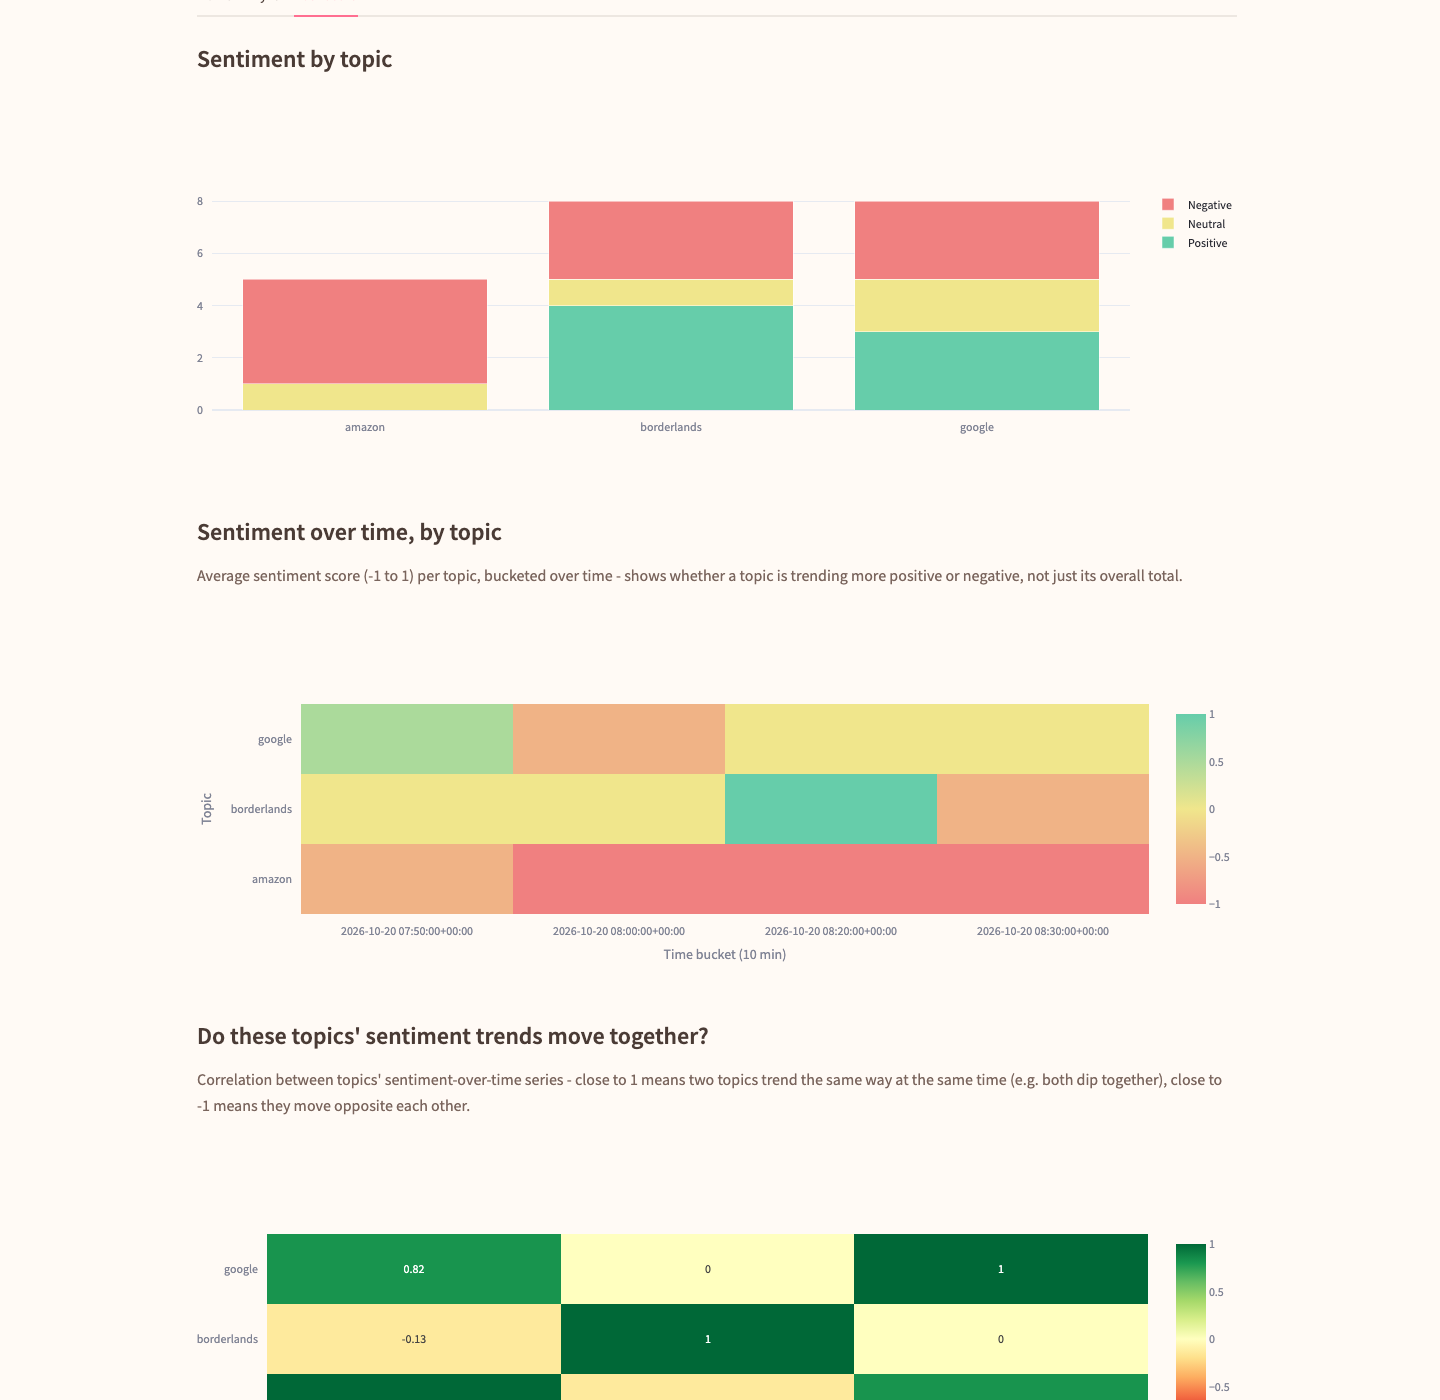
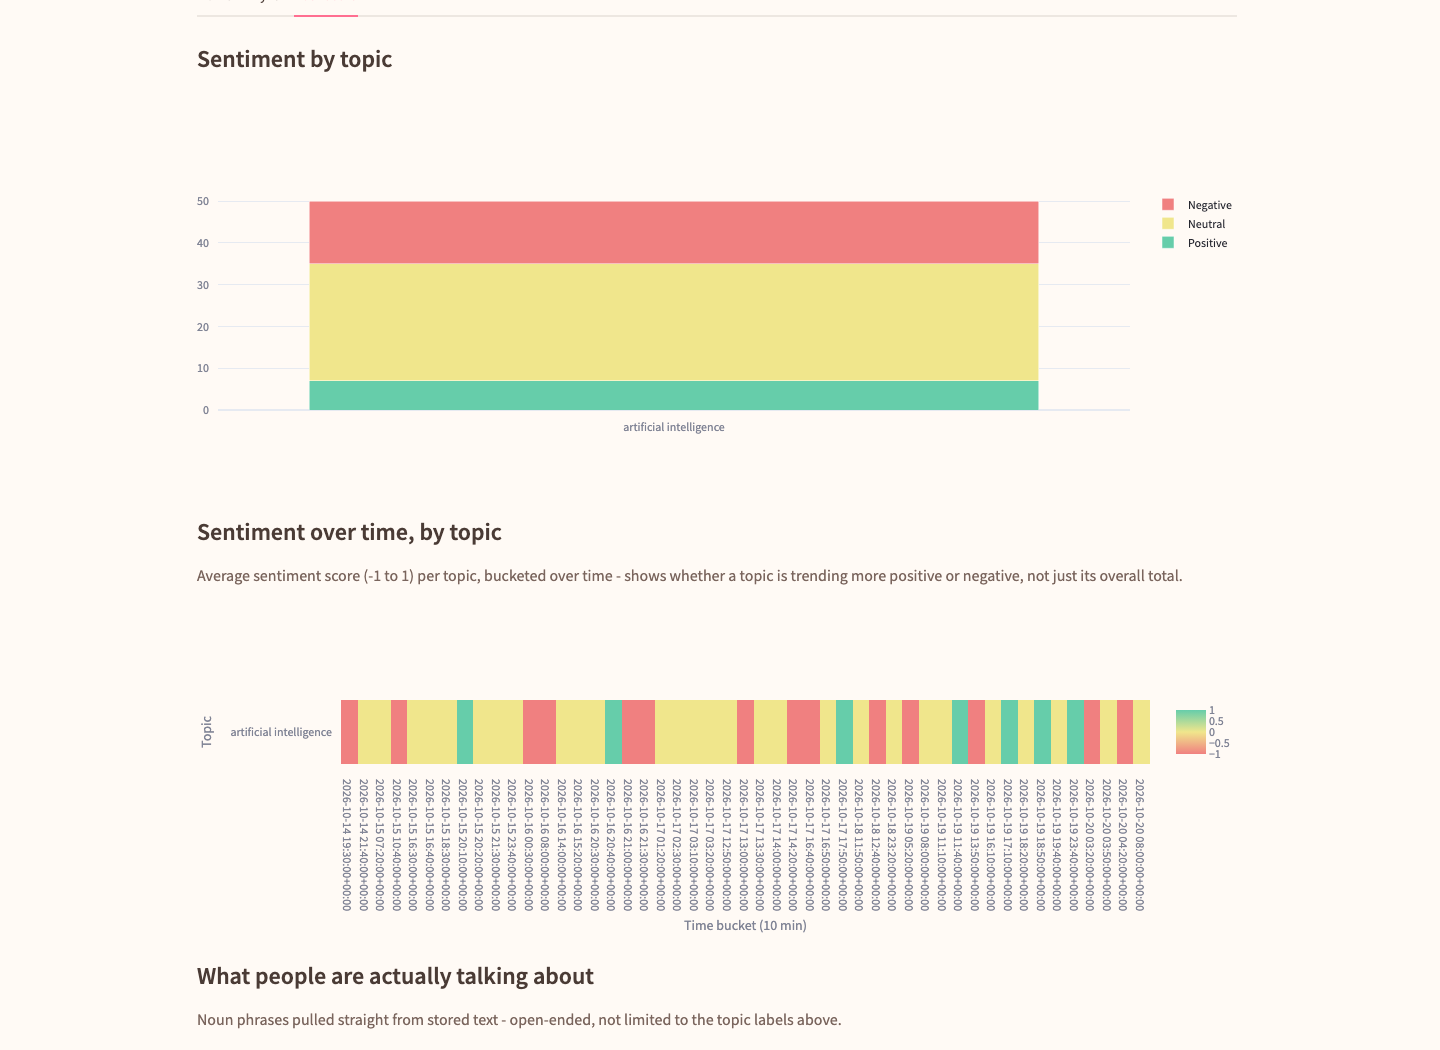
Add live Hacker News ingestion, swap in as the default live source
The plan called for actually running live ingestion end to end, not
just documenting it - but trying to register a Reddit API app for
real hit a wall: Reddit's app registration moved from instant
self-serve to a manual-approval process at some point this year,
confirmed directly rather than assumed. Waiting on that isn't
"live ingestion," it's "live ingestion eventually, maybe."

Added hn_ingest.py: Hacker News comment search via Algolia's public
API - no key, no registration, no approval, works immediately. Same
post-dict shape ingest.py/news.py already produce, so it plugs into
the existing pipeline/quality-gate/storage code unchanged. Wired in
as the default source in scheduler.py and a new live option in the
Try It tab, with Reddit kept (not removed) as a documented
alternative for anyone who has or later gets API access.

Verified end to end through the real Streamlit UI: a live search for
"artificial intelligence" pulled 50 real, current HN comments, all 50
passed the quality gate, all 50 scored and stored, and the dashboard
correctly shows real comment timestamps spanning the last several
days - genuinely live data, not a demo dataset standing in for it.

diff --git a/app.py b/app.py
@@ -1,8 +1,8 @@
 """Streamlit dashboard for SentimentAutomated - reads from the SQLite
 store built by pipeline.py, rather than a one-shot CSV-in/PDF-out script.
 Includes a "Try it" tab that runs the real pipeline on a sample of the
-bundled Twitter dataset live, so the project is interactive even without
-Reddit/NewsAPI credentials configured."""
+bundled Twitter dataset, or a genuinely live pull from Hacker News, so the
+project is interactive with zero credentials configured."""
 
 import pandas as pd
 import plotly.graph_objects as go
@@ -10,6 +10,7 @@ import streamlit as st
 
 import store
 from alerts import check_alerts
+from hn_ingest import fetch_hn_comments
 from pipeline import run_pipeline
 from process import SentimentModel
 from topics import top_noun_chunks
@@ -63,7 +64,8 @@ def home_tab():
         "CSV and print a PDF."
         "</p>"
         "<ul>"
-        "<li><b>Ingest</b> - Reddit posts/comments, news headlines, or a batch CSV</li>"
+        "<li><b>Ingest</b> - Hacker News comments live, Reddit/news headlines when configured, "
+        "or a batch CSV</li>"
         "<li><b>Score</b> - a RoBERTa model fine-tuned for sentiment, batched for real throughput</li>"
         "<li><b>Store</b> - SQLite, so history builds up instead of getting overwritten</li>"
         "<li><b>Alert</b> - flags a topic if its negative share crosses a threshold</li>"
@@ -109,8 +111,8 @@ def home_tab():
         st.markdown(
             '<div class="sa-feature-card"><h4>Try It</h4>'
             "<ul>"
-            "<li>Pick a topic from the bundled dataset and ingest a live sample</li>"
-            "<li>No Reddit/NewsAPI credentials needed for this demo path</li>"
+            "<li>A bundled-dataset sample, or a genuinely live pull from Hacker News</li>"
+            "<li>No credentials needed for either path</li>"
             "<li>Watch the pipeline accept/reject/score/store in real time</li>"
             "</ul></div>",
             unsafe_allow_html=True,
@@ -135,9 +137,9 @@ def home_tab():
 
 def try_it_tab():
     st.markdown(
-        '<p style="color:#7a655d;">Pulls a small batch from the bundled Twitter dataset for '
-        "the topic you pick, runs it through the real pipeline (quality gate -> sentiment "
-        "scoring -> storage), and shows you what happened at each stage.</p>",
+        '<p style="color:#7a655d;">Two ways to see the real pipeline run (quality gate -> '
+        "sentiment scoring -> storage): a quick sample from the bundled dataset, or a genuinely "
+        "live pull from Hacker News - both need zero credentials.</p>",
         unsafe_allow_html=True,
     )
 
@@ -153,25 +155,40 @@ def try_it_tab():
             f"{summary['stored']} newly stored (duplicates from a prior run are skipped)."
         )
 
-    col1, col2 = st.columns([2, 1])
-    with col1:
-        entity = st.selectbox("Topic", ENTITY_CHOICES)
-    with col2:
-        sample_size = st.number_input("Sample size", min_value=10, max_value=200, value=50, step=10)
+    source_choice = st.radio("Source", ["Bundled dataset (batch)", "Hacker News (live)"], horizontal=True)
 
-    if st.button("Ingest sample"):
-        with st.spinner(f"Ingesting and scoring {sample_size} posts about {entity}..."):
-            # load_batch_csv() treats a whole file as one topic, which isn't
-            # right here since this dataset covers many entities in one
-            # file - filter to the chosen entity first instead.
-            df = pd.read_csv("twitter_training.csv")
-            subset = df[df["Entity"] == entity].head(sample_size)
-            posts = [
-                {"post_id": str(r["Tweet ID"]), "text": str(r["Tweet"]), "topic": entity.lower(), "created_at": None}
-                for _, r in subset.iterrows()
-            ]
-            st.session_state["last_ingest_summary"] = run_pipeline(posts, source="batch_csv", model=load_model())
-        st.rerun()
+    if source_choice == "Bundled dataset (batch)":
+        col1, col2 = st.columns([2, 1])
+        with col1:
+            entity = st.selectbox("Topic", ENTITY_CHOICES)
+        with col2:
+            sample_size = st.number_input("Sample size", min_value=10, max_value=200, value=50, step=10)
+
+        if st.button("Ingest sample"):
+            with st.spinner(f"Ingesting and scoring {sample_size} posts about {entity}..."):
+                # load_batch_csv() treats a whole file as one topic, which
+                # isn't right here since this dataset covers many entities
+                # in one file - filter to the chosen entity first instead.
+                df = pd.read_csv("twitter_training.csv")
+                subset = df[df["Entity"] == entity].head(sample_size)
+                posts = [
+                    {"post_id": str(r["Tweet ID"]), "text": str(r["Tweet"]), "topic": entity.lower(), "created_at": None}
+                    for _, r in subset.iterrows()
+                ]
+                st.session_state["last_ingest_summary"] = run_pipeline(posts, source="batch_csv", model=load_model())
+            st.rerun()
+    else:
+        col1, col2 = st.columns([2, 1])
+        with col1:
+            query = st.text_input("Search Hacker News comments for", value="artificial intelligence")
+        with col2:
+            hn_sample_size = st.number_input("Sample size", min_value=10, max_value=100, value=50, step=10, key="hn_size")
+
+        if st.button("Ingest live from Hacker News"):
+            with st.spinner(f"Pulling live HN comments about '{query}'..."):
+                posts = fetch_hn_comments(query, topic=query.lower(), hits=hn_sample_size)
+                st.session_state["last_ingest_summary"] = run_pipeline(posts, source="hackernews", model=load_model())
+            st.rerun()
 
 
 def dashboard_tab():

diff --git a/scheduler.py b/scheduler.py
@@ -2,24 +2,39 @@
 as orchestration, though intentionally not Kafka/Airflow-scale: a loop with
 a sleep is the right amount of engineering for a project that won't get
 heavy reviewer attention either way, and pretending otherwise would just be
-unnecessary complexity for its own sake."""
+unnecessary complexity for its own sake.
+
+Hacker News is the default source - no credentials needed, works
+immediately. Reddit is still supported for anyone who has (or later gets)
+API access; it just isn't the default anymore since Reddit's app
+registration moved to a manual-approval process this year."""
 
 import time
 
-from process import SentimentModel
-from pipeline import run_pipeline
+from hn_ingest import fetch_hn_comments
 from ingest import fetch_subreddit_posts
+from pipeline import run_pipeline
+from process import SentimentModel
 
 DEFAULT_INTERVAL_SECONDS = 1800  # 30 minutes
 
 
-def run_forever(subreddit: str, topic: str, interval_seconds: int = DEFAULT_INTERVAL_SECONDS, limit: int = 50):
+def run_forever(
+    query: str, topic: str, source: str = "hackernews",
+    interval_seconds: int = DEFAULT_INTERVAL_SECONDS, limit: int = 50,
+):
     model = SentimentModel.load()
-    print(f"Watching r/{subreddit} (topic: {topic}) every {interval_seconds}s. Ctrl+C to stop.")
+    label = f"HN search '{query}'" if source == "hackernews" else f"r/{query}"
+    print(f"Watching {label} (topic: {topic}) every {interval_seconds}s. Ctrl+C to stop.")
     while True:
         try:
-            posts = fetch_subreddit_posts(subreddit, limit=limit, topic=topic)
-            summary = run_pipeline(posts, source="reddit", model=model)
+            if source == "hackernews":
+                posts = fetch_hn_comments(query, topic=topic, hits=limit)
+            elif source == "reddit":
+                posts = fetch_subreddit_posts(query, limit=limit, topic=topic)
+            else:
+                raise ValueError(f"Unknown source: {source!r} (expected 'hackernews' or 'reddit')")
+            summary = run_pipeline(posts, source=source, model=model)
             print(f"[{time.strftime('%Y-%m-%d %H:%M:%S')}] {summary}")
         except Exception as e:  # noqa: BLE001 - keep the loop alive across one bad run (network blip, API error)
             print(f"[{time.strftime('%Y-%m-%d %H:%M:%S')}] run failed: {e}")
@@ -30,8 +45,10 @@ if __name__ == "__main__":
     import sys
 
     if len(sys.argv) < 3:
-        print("Usage: python3 scheduler.py <subreddit> <topic> [interval_seconds]")
+        print("Usage: python3 scheduler.py <query-or-subreddit> <topic> [interval_seconds] [source]")
+        print("  source: 'hackernews' (default, no credentials needed) or 'reddit' (needs .env)")
         sys.exit(1)
 
     interval = int(sys.argv[3]) if len(sys.argv) > 3 else DEFAULT_INTERVAL_SECONDS
-    run_forever(sys.argv[1], sys.argv[2], interval_seconds=interval)
+    source = sys.argv[4] if len(sys.argv) > 4 else "hackernews"
+    run_forever(sys.argv[1], sys.argv[2], source=source, interval_seconds=interval)

diff --git a/hn_ingest.py b/hn_ingest.py
@@ -1,0 +1,65 @@
+"""Live ingestion from Hacker News - the primary live source, swapped in
+for Reddit after Reddit's API access moved to a manual-approval process
+this year (no longer the instant self-serve registration the original
+plan assumed - confirmed by trying it directly). HN's Algolia-backed
+search API is fully public: no key, no registration, no approval, and it
+returns the same shape of data (real user-written text with a timestamp)
+this pipeline needs.
+
+ingest.py's Reddit path is kept, not deleted - it still works for anyone
+who does have Reddit API access, and the pipeline/quality-gate/storage
+code downstream doesn't care which source a post dict came from."""
+
+import requests
+
+SEARCH_URL = "https://hn.algolia.com/api/v1/search_by_date"
+
+
+def fetch_hn_comments(query: str, topic: str | None = None, hits: int = 50) -> list[dict]:
+    """Searches HN comments (not just story titles - comments are where
+    actual opinion/sentiment lives, same reasoning as ingest.py's Reddit
+    path pulling comments alongside post titles) for `query`, most recent
+    first."""
+    topic = topic or query
+    response = requests.get(
+        SEARCH_URL,
+        params={"query": query, "tags": "comment", "hitsPerPage": hits},
+        timeout=10,
+    )
+    response.raise_for_status()
+    hits_data = response.json().get("hits", [])
+
+    posts = []
+    for hit in hits_data:
+        text = hit.get("comment_text")
+        if not text:
+            continue
+        posts.append({
+            "post_id": str(hit["objectID"]),
+            "text": _strip_html(text),
+            "topic": topic,
+            "created_at": hit.get("created_at"),
+            "url": f"https://news.ycombinator.com/item?id={hit['objectID']}",
+        })
+    return posts
+
+
+def _strip_html(text: str) -> str:
+    """HN comment text comes back with basic HTML (<p>, <i>, escaped
+    entities) - strip it down to plain text rather than feeding tags to
+    the sentiment model and quality gate."""
+    import html
+    import re
+    text = re.sub(r"<[^>]+>", " ", text)
+    return html.unescape(text).strip()
+
+
+if __name__ == "__main__":
+    import sys
+
+    if len(sys.argv) < 2:
+        print("Usage: python3 hn_ingest.py <search query>")
+        sys.exit(1)
+
+    posts = fetch_hn_comments(sys.argv[1])
+    print(f"Fetched {len(posts)} comments for '{sys.argv[1]}'")

diff --git a/tests/test_hn_ingest.py b/tests/test_hn_ingest.py
@@ -1,0 +1,13 @@
+from hn_ingest import _strip_html
+
+
+def test_strip_html_removes_tags():
+    assert _strip_html("<p>hello <i>world</i></p>") == "hello  world"
+
+
+def test_strip_html_unescapes_entities():
+    assert _strip_html("a &amp; b &#x2F; c") == "a & b / c"
+
+
+def test_strip_html_handles_plain_text_unchanged():
+    assert _strip_html("just plain text") == "just plain text"

diff --git a/README.MD b/README.MD
@@ -18,17 +18,23 @@ alerting.
 
 ![Home tab](screenshots/home.png)
 
+**Try It, live** - a genuinely live pull from Hacker News, no credentials needed, run end to end
+through the real pipeline:
+
+![Try It tab, Hacker News source](screenshots/try_it_hn.png)
+
 **Dashboard** - sentiment by topic, a sentiment-over-time heatmap per topic, a correlation view
 showing whether two topics' sentiment trends move together, open-ended noun-phrase extraction
 (what people are actually saying, not just the fixed topic labels), what the quality gate
-rejected and why, and a PDF export:
+rejected and why, and a PDF export - shown here with real data from the live Hacker News pull
+above, spanning real comment timestamps from the last several days:
 
 ![Dashboard tab](screenshots/dashboard.png)
 
 ## How it works
 
 ```
-ingest (Reddit / NewsAPI / batch CSV)
+ingest (Hacker News / Reddit / NewsAPI / batch CSV)
    -> quality gate (dedupe, reject empty/non-English, truncate)
    -> sentiment scoring (RoBERTa, batched)
    -> topic tagging
@@ -36,10 +42,14 @@ ingest (Reddit / NewsAPI / batch CSV)
    -> dashboard + alerts
 ```
 
-**Ingest** (`ingest.py`, `news.py`) - live Reddit posts/comments via `praw`, or news headlines via
-NewsAPI, for a tracked topic. The original static `twitter_training.csv` isn't deleted - it's
-kept as a "batch mode" input, and also powers the **Try It** tab's live demo so the project works
-immediately without API credentials.
+**Ingest** (`hn_ingest.py`, `ingest.py`, `news.py`) - **Hacker News is the default live source**
+(`hn_ingest.py`, via Algolia's public HN search API - no key, no registration, no approval, works
+immediately). Reddit ingestion (`ingest.py`, via `praw`) is still supported for anyone with API
+access, but isn't the default anymore - Reddit's app registration moved to a manual-approval
+process partway through this project's build (previously instant self-serve; confirmed directly
+by trying it), so a source that actually works out of the box took priority. NewsAPI (`news.py`)
+remains available as a third option. The original static `twitter_training.csv` isn't deleted -
+it's kept as a "batch mode" input, and both it and the live HN path power the **Try It** tab.
 
 **Quality gate** (`quality.py`) - dedupes by post ID, rejects empty/near-empty text, rejects
 non-English text (`langdetect`), truncates long text instead of erroring. Every rejection is
@@ -89,11 +99,13 @@ pip install -r requirements.txt
 python3 -m spacy download en_core_web_sm
 ```
 
-**For live Reddit/news ingestion** (optional - the Try It tab works without this):
+**For Reddit/NewsAPI ingestion** (optional - Hacker News and the bundled dataset both work with
+zero setup):
 
 ```bash
 cp .env.example .env
-# fill in REDDIT_CLIENT_ID / REDDIT_CLIENT_SECRET (free at reddit.com/prefs/apps, instant)
+# fill in REDDIT_CLIENT_ID / REDDIT_CLIENT_SECRET if you have Reddit API access
+# (reddit.com/prefs/apps - now a manual-approval process, no longer instant)
 # and optionally NEWSAPI_KEY (free at newsapi.org/register)
 ```
 
@@ -105,14 +117,21 @@ cp .env.example .env
 streamlit run app.py
 ```
 
-No credentials needed - the **Try It** tab ingests a live sample from the bundled dataset through
-the real pipeline, so the whole thing is interactive out of the box.
+No credentials needed - the **Try It** tab can ingest either a sample from the bundled dataset or
+a genuinely live pull from Hacker News, both through the real pipeline.
 
-**Live Reddit ingestion (needs `.env` credentials):**
+**Live Hacker News ingestion (no credentials needed):**
 
 ```bash
-python3 ingest.py <subreddit> [limit]          # one-off pull
-python3 scheduler.py <subreddit> <topic> [interval_seconds]   # runs continuously
+python3 hn_ingest.py "<search query>"                                    # one-off pull
+python3 scheduler.py "<search query>" <topic> [interval_seconds]          # runs continuously
+```
+
+**Live Reddit ingestion (needs `.env` credentials and approved API access):**
+
+```bash
+python3 ingest.py <subreddit> [limit]                                         # one-off pull
+python3 scheduler.py <subreddit> <topic> [interval_seconds] reddit             # runs continuously
 ```
 
 **Score a CSV directly (the original script's interface, still available):**
@@ -130,8 +149,9 @@ pytest tests/
 ## Project structure
 
 ```
-ingest.py       # Reddit ingestion + batch-CSV loader
-news.py          # NewsAPI ingestion (second source)
+hn_ingest.py    # Hacker News ingestion (default live source, no credentials needed)
+ingest.py        # Reddit ingestion (needs approved API access) + batch-CSV loader
+news.py           # NewsAPI ingestion (optional third source)
 quality.py        # data quality gate (dedupe/reject/truncate), logs every rejection
 process.py         # sentiment scoring (batched), replaces sentiment.py + sentiment_limited.py
 topics.py           # keyword tagging + spaCy noun-chunk extraction
@@ -147,8 +167,10 @@ tests/                        # pytest coverage for quality/store/alerts/topics
 
 ## Limitations
 
-- Live Reddit/NewsAPI ingestion needs the user's own free API credentials - not runnable live
-  without them, though the Try It tab's batch-CSV path needs nothing
+- Reddit's API moved to a manual-approval registration process partway through this project's
+  build (previously instant); that path is kept and documented but isn't runnable on demand the
+  way Hacker News is - a real external constraint, not a design choice
+- NewsAPI ingestion needs the user's own free API key - not runnable without it
 - Topic tagging is a fixed keyword match or noun chunks, not real aspect-based sentiment analysis
 - The 62.8% ground-truth agreement reflects a domain mismatch (general Twitter vs. gaming/tech
   entities), not a flaw in the pipeline itself - a domain-specific fine-tune would likely do
